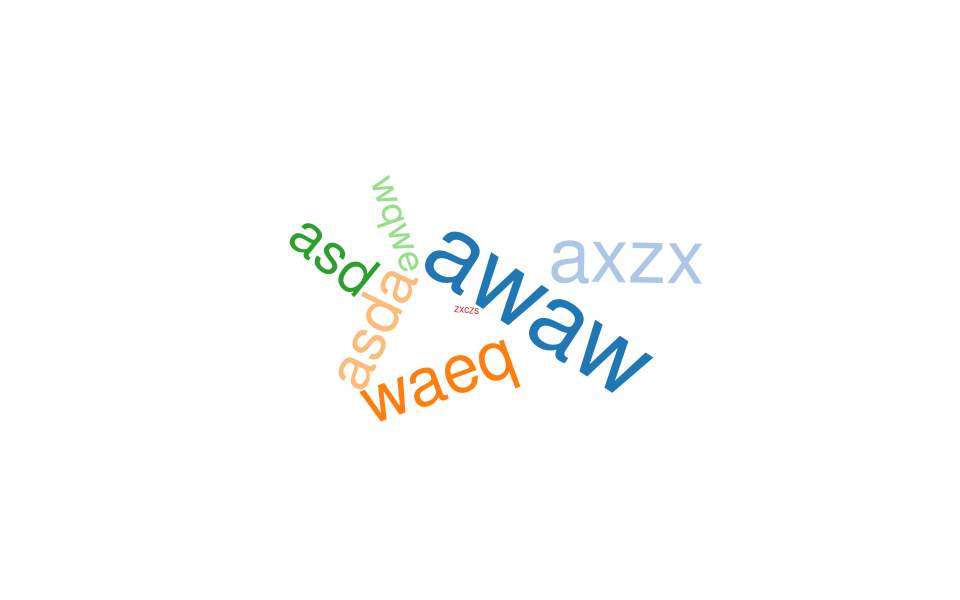
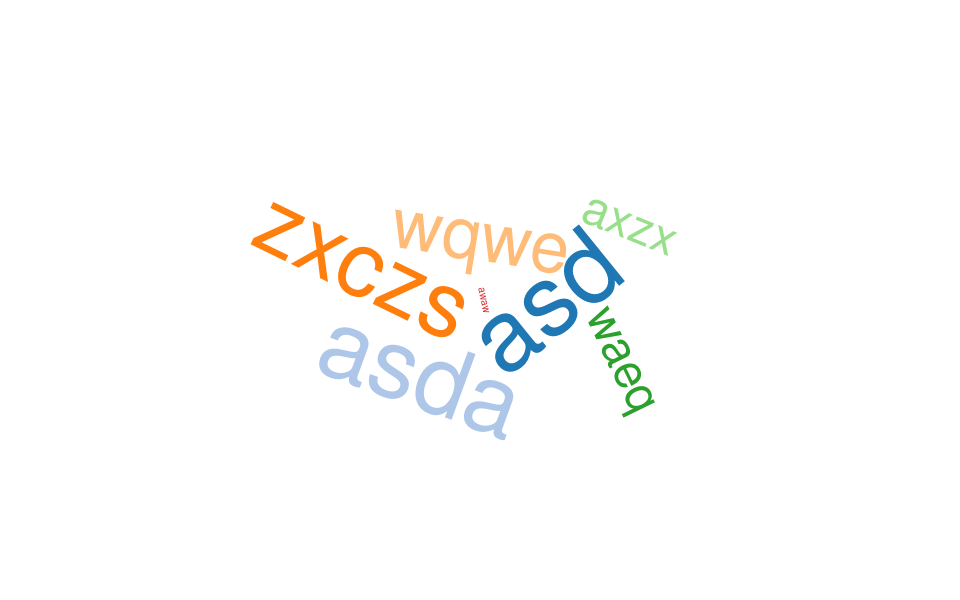
poprawa

Changed region(s): [[0.25, 0.3, 0.75, 0.75]]

diff --git a/app/mailers/post_mailer.rb b/app/mailers/post_mailer.rb
@@ -1,21 +1,5 @@
 class PostMailer < ApplicationMailer
 
-  def create_post
-    words = Quote.
-      all.
-      order(:score).
-      limit(7).
-      pluck(:label).
-      map { |word| [word, rand(45)] }
-    @quotes =   Quote.
-      all.
-      order(:score).
-      limit(7)
-    cloud = MagicCloud::Cloud.new(words, rotate: :free, scale: :sqrt)
-    img = cloud.draw(960, 600)
-    img.write('app/assets/images/test.png')
-  end
-
   def post_created
     attachments["word_cloud.png"] = File.read('app/assets/images/test.png')
     mail(
@@ -23,5 +7,6 @@ class PostMailer < ApplicationMailer
       to: "Printer_Mail",
       subject: "Printing word cloud"
     )
+    File.delete('app/assets/images/test.png') if File.exist?('app/assets/images/test.png')
   end
 end

diff --git a/config/environments/production.rb b/config/environments/production.rb
@@ -2,6 +2,8 @@ require "active_support/core_ext/integer/time"
 
 Rails.application.configure do
   # Settings specified here will take precedence over those in config/application.rb.
+  #
+  config.serve_static_assets = false
 
   # Code is not reloaded between requests.
   config.cache_classes = true
@@ -14,7 +16,7 @@ Rails.application.configure do
   config.eager_load = true
 
   # Full error reports are disabled and caching is turned on.
-  config.consider_all_requests_local       = false
+  config.consider_all_requests_local       = true
   config.action_controller.perform_caching = true
 
   # Ensures that a master key has been made available in either ENV["RAILS_MASTER_KEY"]

diff --git a/app/jobs/generate_image_job.rb b/app/jobs/generate_image_job.rb
@@ -1,0 +1,18 @@
+class GenerateImageJob < ApplicationJob
+  queue_as :default
+  def perform(*args)
+      words = Quote.
+        all.
+        order(:score).
+        limit(7).
+        pluck(:label).
+        map { |word| [word, rand(45)] }
+        @quotes = Quote.
+        all.
+        order(:score).
+        limit(7)
+      cloud = MagicCloud::Cloud.new(words, rotate: :free, scale: :sqrt)
+      img = cloud.draw(960, 600)
+      img.write('app/assets/images/test.png')
+    end
+end

diff --git a/app/jobs/generate_and_send_email_job.rb b/app/jobs/generate_and_send_email_job.rb
@@ -2,9 +2,6 @@ class GenerateAndSendEmailJob < ApplicationJob
   queue_as :default
 
   def perform(*args)
-
-    PostMailer.create_post
-
     if File.exists?('app/assets/images/test.png')
       PostMailer.post_created.deliver_now
     end

diff --git a/test/jobs/generate_image_job_test.rb b/test/jobs/generate_image_job_test.rb
@@ -1,0 +1,7 @@
+require "test_helper"
+
+class GenerateImageJobTest < ActiveJob::TestCase
+  # test "the truth" do
+  #   assert true
+  # end
+end
